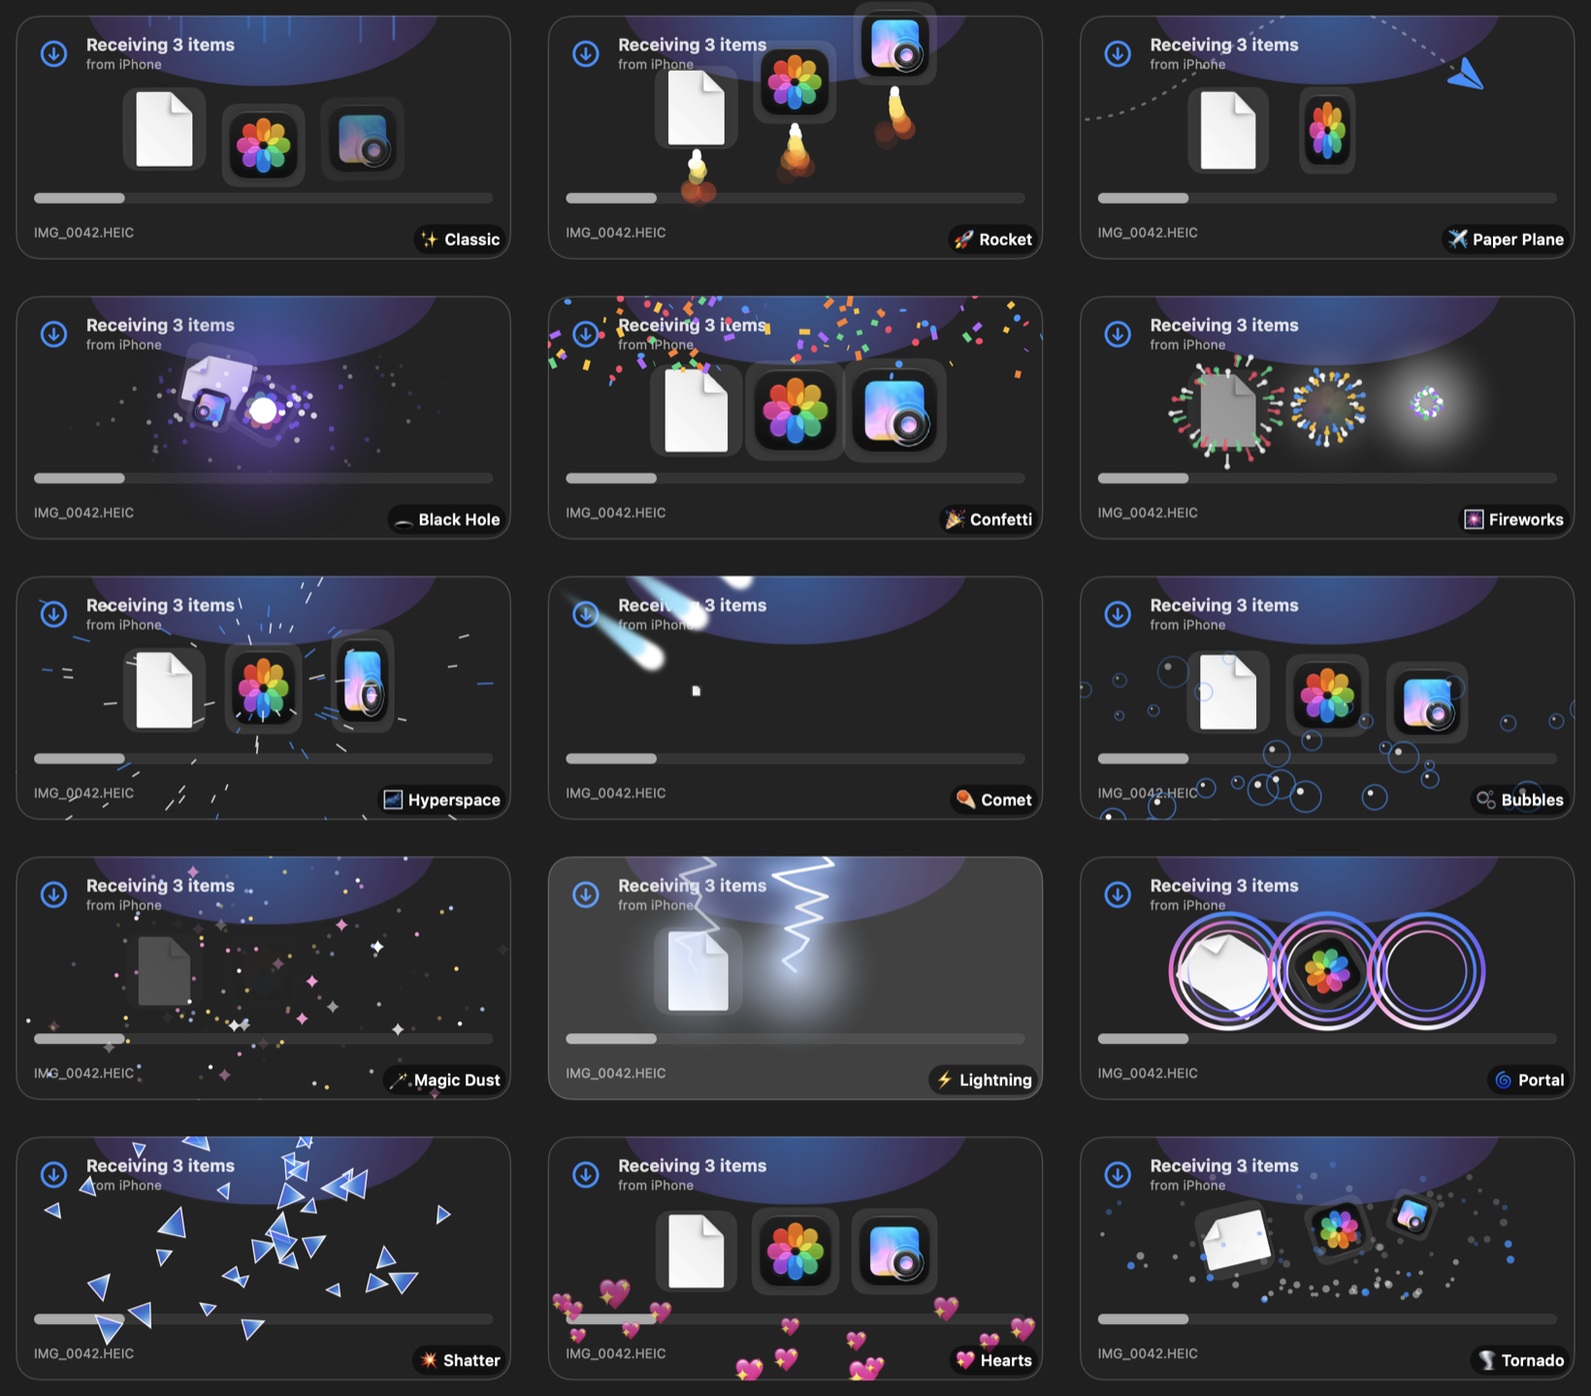
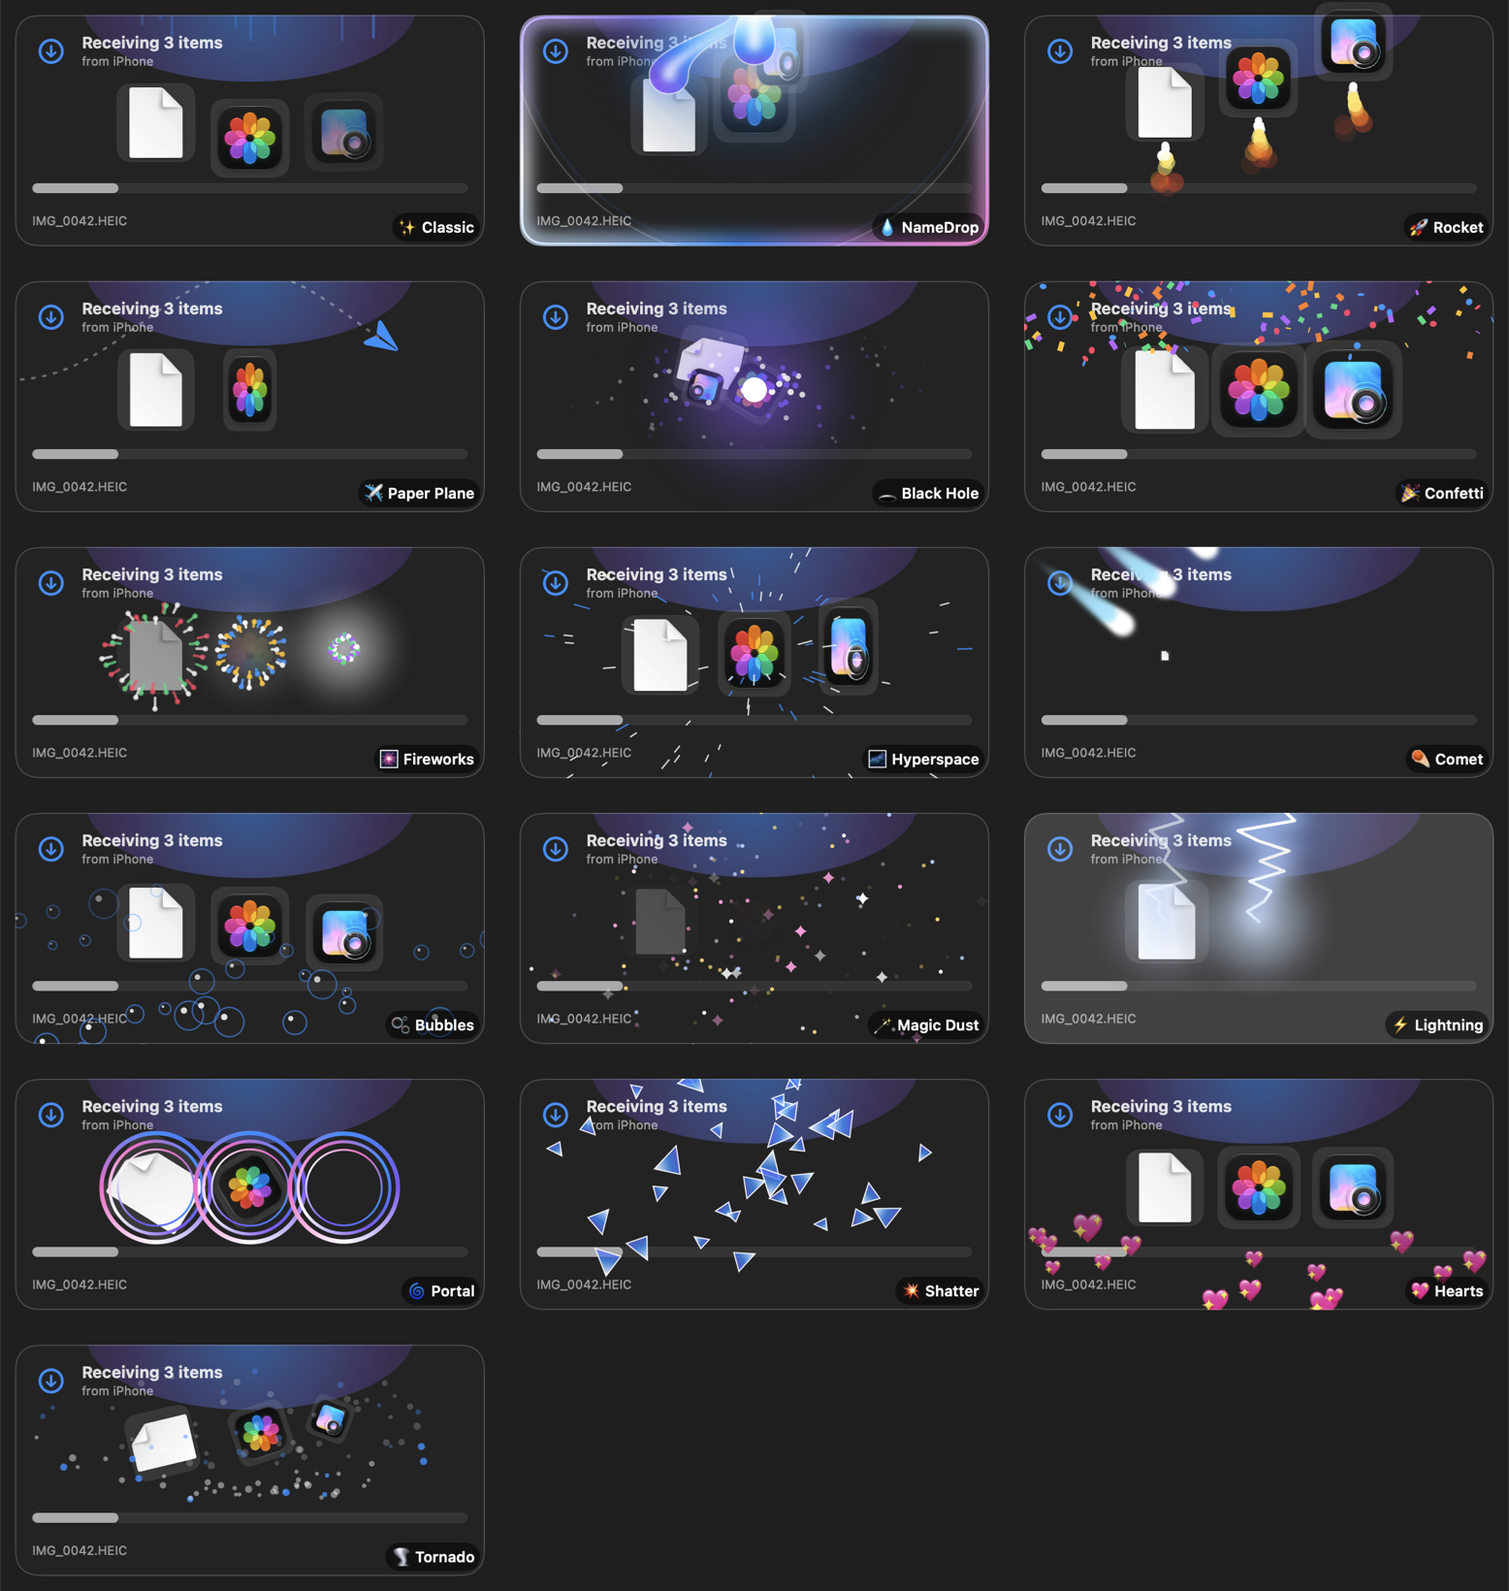
1.3.0: 💧 NameDrop drop effect on iPhone and Mac

diff --git a/Shared/Effects.swift b/Shared/Effects.swift
@@ -7,7 +7,7 @@
 import SwiftUI
 
 enum DropEffect: String, CaseIterable, Identifiable, Codable {
-    case classic, rocket, paperPlane, blackHole, confetti, fireworks, hyperspace, comet,
+    case classic, nameDrop, rocket, paperPlane, blackHole, confetti, fireworks, hyperspace, comet,
          bubbles, magic, lightning, portal, shatter, hearts, tornado
 
     var id: String { rawValue }
@@ -15,6 +15,7 @@ enum DropEffect: String, CaseIterable, Identifiable, Codable {
     var title: String {
         switch self {
         case .classic: return "Classic"
+        case .nameDrop: return "NameDrop"
         case .rocket: return "Rocket"
         case .paperPlane: return "Paper Plane"
         case .blackHole: return "Black Hole"
@@ -35,6 +36,7 @@ enum DropEffect: String, CaseIterable, Identifiable, Codable {
     var emoji: String {
         switch self {
         case .classic: return "✨"
+        case .nameDrop: return "💧"
         case .rocket: return "🚀"
         case .paperPlane: return "✈"
         case .blackHole: return "🕳"
@@ -55,7 +57,8 @@ enum DropEffect: String, CaseIterable, Identifiable, Codable {
     /// One line for the picker.
     var blurb: String {
         switch self {
-        case .classic: return "A clean flick off the top, like NameDrop"
+        case .classic: return "A clean flick off the top"
+        case .nameDrop: return "A glowing drop of light pulls it up, just like NameDrop"
         case .rocket: return "Rumbles, then blasts off on a plume of fire"
         case .paperPlane: return "Folds up and loops away on the breeze"
         case .blackHole: return "Spirals into a swirling void"
@@ -80,7 +83,7 @@ enum DropEffect: String, CaseIterable, Identifiable, Codable {
         case .lightning: return 1.1
         case .confetti, .shatter, .hyperspace: return 1.3
         case .rocket, .comet: return 1.5
-        case .paperPlane, .magic, .portal, .hearts, .tornado: return 1.6
+        case .nameDrop, .paperPlane, .magic, .portal, .hearts, .tornado: return 1.6
         case .blackHole, .fireworks: return 1.8
         case .bubbles: return 1.9
         }
@@ -108,6 +111,22 @@ enum DropEffect: String, CaseIterable, Identifiable, Codable {
             let u = ease(clamp(t / 0.55), .in)
             m.y = -1100 * u
             m.scale = 1 - 0.55 * u
+        case .nameDrop:
+            // A breath while the drop reaches down and catches it, then it's drawn up into the top edge.
+            if t < 0.3 {
+                let k = ease(t / 0.3, .inOut)
+                m.y = -24 * k
+                m.scale = 1 - 0.08 * k
+                m.stretch = 1 + 0.08 * k
+                m.brightness = 0.15 * k
+            } else {
+                let u = ease(clamp((t - 0.3) / 0.4), .in)
+                m.y = -24 - 1000 * u
+                m.scale = 0.92 - 0.75 * u
+                m.stretch = 1.08 + 0.9 * sin(u * .pi)   // pulled long, like a drop
+                m.brightness = 0.15 + 0.5 * u
+                m.opacity = u >= 1 ? 0 : 1
+            }
         case .rocket:
             if t < 0.3 {
                 let k = t / 0.3
@@ -246,6 +265,16 @@ enum DropEffect: String, CaseIterable, Identifiable, Codable {
             m.y = -90 * (1 - s)
             m.angle = Double(side) * 14 * (1 - s)
             m.opacity = clamp(t / 0.2)
+        case .nameDrop:
+            // Each card swells out of the drop at the top centre and springs into its slot.
+            let u = clamp((t - 0.22) / 0.42)
+            let s = ease(u, .out)
+            m.x = -76 * side * CGFloat(1 - s)
+            m.y = CGFloat(-80 * (1 - s))
+            m.scale = CGFloat(0.12 + 0.88 * min(1.06, spring(u)))
+            m.stretch = CGFloat(1 + 0.6 * (1 - ease(u, .out)))
+            m.opacity = u > 0 ? 1 : 0
+            m.brightness = 0.5 * (1 - u)
         case .rocket:
             let u = ease(clamp(t / 0.7), .out)
             m.y = -150 * (1 - u)
@@ -435,6 +464,30 @@ private enum EffectArt {
         switch e {
         case .classic:
             streaks(&g, from: p, count: 10, length: 160 * fade(t, 0, 0.5), spread: 60, color: blue, alpha: 0.5 * (1 - t))
+        case .nameDrop:
+            let top = CGPoint(x: o.x, y: 0)
+            let merge = 0.62
+            edgeGlow(&g, size: size, t: t, alpha: ease(clamp(t / 0.25), .out) * (1 - fade(t, 0.85, 1.2)), corner: 54, width: 22)
+            // The drop: reaches down from the top edge, catches the top of the stack, and shrinks back up with it.
+            let reach = ease(clamp(t / 0.3), .out)
+            let catchY = p.y - 50 * m.scale * m.stretch
+            let tip = CGPoint(x: p.x, y: min(catchY, top.y + (catchY - top.y) * reach))
+            let held = 1 - fade(t, merge - 0.04, merge + 0.06)
+            glow(&g, p, radius: 120 * m.scale, color: blue, alpha: 0.5 * held * reach)
+            liquid(&g, top: top, width: 26 + 26 * reach, tip: tip, bulb: 9 + 17 * m.scale, alpha: held)
+            for i in 0..<44 {   // light running up the drop
+                let s = (r(i, 1) + t * 2.2).truncatingRemainder(dividingBy: 1)
+                let y = tip.y + (top.y - tip.y) * s
+                let w = 6 + 30 * pow(1 - s, 2) * (r(i, 2) - 0.5) * 2
+                dot(&g, CGPoint(x: top.x + w, y: y), radius: 1.2 + 1.8 * r(i, 3), color: .white, alpha: held * reach * (0.4 + 0.6 * s))
+            }
+            // Where it goes in: a flash and ripples rolling out from the top edge.
+            if t > merge - 0.05 {
+                let f = fade(t, merge - 0.05, merge + 0.1)
+                glow(&g, top, radius: 90 + 200 * f, color: .white, alpha: 0.95 * (1 - fade(t, merge + 0.05, merge + 0.45)))
+                glow(&g, top, radius: 260 * f, color: violet, alpha: 0.5 * (1 - fade(t, merge + 0.1, 1.1)))
+            }
+            ripples(&g, at: top, t: (t - merge) / 0.55, count: 4, radius: 340, color: blue)
         case .rocket:
             // Rumble: smoke puffs; lift-off: a flame plume under the stack and smoke left behind.
             let thrust = t < 0.3 ? 0.4 * t / 0.3 : 1 - clamp((t - 0.9) / 0.3)
@@ -665,6 +718,22 @@ private enum EffectArt {
                 streaks(&g, from: CGPoint(x: s.x, y: s.y - 40), count: 5, length: 50 * (1 - fade(t, 0.1, 0.6)), spread: 26,
                         color: blue, alpha: 0.4 * (1 - t), seed: i, down: true)
             }
+        case .nameDrop:
+            let top = CGPoint(x: row.x, y: 0)
+            edgeGlow(&g, size: size, t: t, alpha: fade(t, 0, 0.15) * (1 - fade(t, 0.65, 1)), corner: 18, width: 12)
+            ripples(&g, at: top, t: t / 0.55, count: 2, radius: 200, color: blue)
+            glow(&g, top, radius: 110, color: .white, alpha: 0.7 * ease(clamp(t / 0.2), .out) * (1 - fade(t, 0.4, 0.75)))
+            let n = spots.count
+            for (i, s) in spots.enumerated() {
+                // A drop from the top centre to each card, carrying it down, then let go.
+                let m = e.arrive(t, index: i, of: n)
+                let card = CGPoint(x: s.x + m.x, y: s.y + m.y - 32 * m.scale * m.stretch)
+                let reach = ease(clamp(t / 0.25), .out)
+                let tip = CGPoint(x: top.x + (card.x - top.x) * reach, y: top.y + (card.y - top.y) * reach)
+                let d = Double(i) * 0.08
+                liquid(&g, top: top, width: 22, tip: tip, bulb: 6 + 10 * m.scale, alpha: 1 - fade(t, d + 0.5, d + 0.68))
+                ripples(&g, at: s, t: (t - d - 0.5) / 0.5, count: 3, radius: 70, color: blue)
+            }
         case .rocket:
             for (i, s) in spots.enumerated() {
                 let m = e.arrive(t, index: i, of: spots.count)
@@ -821,6 +890,72 @@ private enum EffectArt {
     }
 
     // MARK: Pieces
+
+    /// A drop of light hanging from `top`: wide where it joins the edge, a thin neck, a round bulb at `tip`.
+    static func liquid(_ g: inout GraphicsContext, top c: CGPoint, width w: Double, tip: CGPoint, bulb b: Double, alpha: Double) {
+        let len = Double(tip.y - c.y)
+        guard alpha > 0.01, len > 2 else { return }
+        func shape(_ w: Double, _ b: Double) -> Path {
+            let neck = max(b * 0.3, 2)
+            let lead = max(b * 1.6, len * 0.35)
+            var p = Path()
+            p.move(to: CGPoint(x: c.x - w, y: c.y - 2))
+            p.addCurve(to: CGPoint(x: tip.x - b, y: tip.y), control1: CGPoint(x: c.x - neck, y: c.y + len * 0.15),
+                       control2: CGPoint(x: tip.x - b, y: tip.y - lead))
+            p.addCurve(to: CGPoint(x: tip.x + b, y: tip.y), control1: CGPoint(x: tip.x - b, y: tip.y + b * 1.33),
+                       control2: CGPoint(x: tip.x + b, y: tip.y + b * 1.33))
+            p.addCurve(to: CGPoint(x: c.x + w, y: c.y - 2), control1: CGPoint(x: tip.x + b, y: tip.y - lead),
+                       control2: CGPoint(x: c.x + neck, y: c.y + len * 0.15))
+            p.closeSubpath()
+            return p
+        }
+        let body = shape(w, b)
+        var soft = g
+        soft.opacity = alpha * 0.8
+        soft.addFilter(.blur(radius: 14))
+        soft.fill(body, with: .color(blue))
+        var c2 = g
+        c2.opacity = alpha * 0.9
+        c2.fill(body, with: .linearGradient(Gradient(colors: [.white, Color(red: 0.55, green: 0.88, blue: 1), blue, violet]),
+                                             startPoint: c, endPoint: CGPoint(x: tip.x, y: tip.y + b)))
+        c2.stroke(body, with: .color(.white.opacity(0.6)), lineWidth: 1.2)
+        var core = g
+        core.opacity = alpha * 0.75
+        core.addFilter(.blur(radius: 3))
+        core.fill(shape(w * 0.3, b * 0.35), with: .color(.white))
+    }
+
+    /// The shimmering rim of light around the screen, brightest along the top where the two devices meet.
+    static func edgeGlow(_ g: inout GraphicsContext, size: CGSize, t: Double, alpha: Double, corner: Double, width: Double) {
+        guard alpha > 0.01 else { return }
+        let rim = Path(roundedRect: CGRect(origin: .zero, size: size).insetBy(dx: 2, dy: 2), cornerRadius: corner, style: .continuous)
+        let shimmer = GraphicsContext.Shading.conicGradient(
+            Gradient(colors: [blue, .white, violet, Color(red: 0.55, green: 0.88, blue: 1), Color(red: 1, green: 0.5, blue: 0.85), blue]),
+            center: CGPoint(x: size.width / 2, y: size.height / 2), angle: .degrees(t * 260))
+        var soft = g
+        soft.opacity = alpha * 0.9
+        soft.addFilter(.blur(radius: width * 0.55))
+        soft.stroke(rim, with: shimmer, lineWidth: width)
+        var sharp = g
+        sharp.opacity = alpha
+        sharp.stroke(rim, with: shimmer, lineWidth: max(2, width * 0.14))
+        let mid = CGPoint(x: size.width / 2, y: 0)
+        g.fill(Path(CGRect(x: 0, y: 0, width: size.width, height: size.width * 0.4)),
+               with: .radialGradient(Gradient(colors: [Color.white.opacity(0.55 * alpha), blue.opacity(0.25 * alpha), .clear]),
+                                     center: mid, startRadius: 0, endRadius: size.width * 0.4))
+    }
+
+    /// Rings of light rolling out from `p` one after another, as `t` goes 0→1.
+    static func ripples(_ g: inout GraphicsContext, at p: CGPoint, t: Double, count: Int, radius: Double, color: Color) {
+        guard t > 0 else { return }
+        for k in 0..<count {
+            let u = (t - Double(k) * 0.14) / 0.7
+            guard u > 0, u < 1 else { continue }
+            let rad = radius * ease(u, .out)
+            ring(&g, p, radius: rad * 0.97, width: 10 * (1 - u), color: color, alpha: 0.4 * (1 - u))
+            ring(&g, p, radius: rad, width: 0.8 + 2.5 * (1 - u), color: .white, alpha: 0.85 * (1 - u))
+        }
+    }
 
     static func dot(_ g: inout GraphicsContext, _ p: CGPoint, radius: Double, color: Color, alpha: Double, blur: Double = 0) {
         guard alpha > 0.01, radius > 0.1 else { return }

diff --git a/scripts/render_effects.swift b/scripts/render_effects.swift
@@ -44,14 +44,14 @@ struct RenderEffects {
         }
 
         // The most telling moment of each throw, for the contact sheet.
-        let best: [DropEffect: Double] = [.classic: 0.35, .rocket: 0.55, .paperPlane: 0.6, .blackHole: 0.55, .confetti: 0.3,
+        let best: [DropEffect: Double] = [.classic: 0.35, .nameDrop: 0.42, .rocket: 0.55, .paperPlane: 0.6, .blackHole: 0.55, .confetti: 0.3,
                                           .fireworks: 0.55, .hyperspace: 0.5, .comet: 0.6, .bubbles: 0.45, .magic: 0.45,
                                           .lightning: 0.12, .portal: 0.55, .shatter: 0.3, .hearts: 0.6, .tornado: 0.45]
         let all = DropEffect.allCases
         save(VStack(spacing: 6) {
-            ForEach(0..<3) { row in
+            ForEach(0..<(all.count + 3) / 4, id: \.self) { row in
                 HStack(spacing: 6) {
-                    ForEach(all[row * 5 ..< row * 5 + 5]) { e in phone(e, at: best[e] ?? 0.5, label: true) }
+                    ForEach(all[row * 4 ..< min(all.count, row * 4 + 4)]) { e in phone(e, at: best[e] ?? 0.5, label: true) }
                 }
             }
         }.padding(6).background(Color.black), out.appendingPathComponent("effects-iphone.png"))
@@ -87,7 +87,7 @@ struct RenderEffects {
             return img
         }
 
-        let macBest: [DropEffect: Double] = [.classic: 0.25, .lightning: 0.2, .paperPlane: 0.4, .shatter: 0.3, .comet: 0.3,
+        let macBest: [DropEffect: Double] = [.classic: 0.25, .nameDrop: 0.38, .lightning: 0.2, .paperPlane: 0.4, .shatter: 0.3, .comet: 0.3,
                                              .bubbles: 0.5, .fireworks: 0.4, .confetti: 0.35]
         var sheet: [(DropEffect, NSImage)] = []
         for e in all {
@@ -97,7 +97,7 @@ struct RenderEffects {
                  frames.appendingPathComponent("\(e.rawValue)-mac.png"))
         }
         save(VStack(alignment: .leading, spacing: 4) {
-            ForEach(0..<5) { row in
+            ForEach(0..<(sheet.count + 2) / 3, id: \.self) { row in
                 HStack(spacing: 4) {
                     ForEach(sheet[row * 3 ..< min(sheet.count, row * 3 + 3)].indices, id: \.self) { i in
                         Image(nsImage: sheet[i].1)

diff --git a/iPhone/PhoneShared/DropView.swift b/iPhone/PhoneShared/DropView.swift
@@ -106,6 +106,9 @@ final class Drop: ObservableObject {
             buzz(.light, stride(from: 0, to: 0.42, by: 0.05).map { $0 }, intensity: 0.8)
             buzz(.heavy, [0.45])
         case .lightning: buzz(.rigid, [0, 0.06, 0.14])
+        case .nameDrop:
+            buzz(.soft, stride(from: 0, to: 0.36 * d, by: 0.09).map { $0 }, intensity: 0.6)
+            buzz(.rigid, [0.62 * d]); buzz(.soft, [0.7 * d, 0.8 * d], intensity: 0.5)
         case .fireworks: buzz(.medium, [0]); buzz(.heavy, [0.36 * d, 0.5 * d, 0.62 * d])
         case .hearts: buzz(.medium, [0.05, 0.25])
         case .confetti: buzz(.heavy, [0]); buzz(.light, [0.15, 0.22, 0.3])

diff --git a/README.md b/README.md
@@ -27,7 +27,7 @@ It works without a shared network, so office and guest Wi-Fi are fine.
 |---|---|
 | **Bring it close, swipe up** | Pampu on the Mac sends out a small Bluetooth signal and the iPhone measures how strong it is. Once it's close, both glow and the stack lifts. Swipe it up: the Mac's cards follow your swipe live, and a tick tells you when letting go will drop it. Choose **Touching**, **Close** or **Nearby** in Settings, with a live reading to help. |
 | **Or let it drop by itself** | Pick **Drop Right Away** in Settings and it goes as soon as the iPhone is close. Swiping up and **Send Now** also work at any distance in range, and with Bluetooth off. |
-| **15 drop effects** | 🚀 Rocket, ✈ Paper Plane, 🕳 Black Hole, 🎆 Fireworks, ⚡ Lightning, 🌀 Portal and more. The iPhone throws the stack with its own particles and haptics, and the Mac plays the matching landing. Pick one in **Settings › Drop effect** (with a live preview), or **🎲 Random** for a different one every time. |
+| **16 drop effects** | 💧 NameDrop (a glowing drop pulls it up into the top edge, with ripples), 🚀 Rocket, ✈ Paper Plane, 🕳 Black Hole, 🎆 Fireworks, ⚡ Lightning, 🌀 Portal and more. The iPhone throws the stack with its own particles and haptics, and the Mac plays the matching landing. Pick one in **Settings › Drop effect** (with a live preview), or **🎲 Random** for a different one every time. |
 | **Swipe it away on the Mac** | Swipe up on the panel with two fingers, or drag it up, to put it away. Mid-drop it stays out of the way and comes back when everything has landed. |
 | **From anywhere on the iPhone** | In the app: **Photos**, **Files** or **Paste**. From any other app: **Share › Pampu** (Photos, Files, Safari, Notes…). Up to 50 items at once. |
 | **No Wi-Fi needed** | A direct, encrypted peer-to-peer link (Apple's MultipeerConnectivity, over peer-to-peer Wi-Fi and Bluetooth). Nothing goes through a server or a cloud, and you don't need an account. |
@@ -67,11 +67,11 @@ It works without a shared network, so office and guest Wi-Fi are fine.
 
 Pick one in **Settings › Drop effect** on the iPhone, or **🎲 Random** (the default) for a new one every drop.
 
-<img src="docs/screenshots/effects-iphone.png" width="820" alt="The 15 throws on the iPhone, mid-flight: Classic, Rocket, Paper Plane, Black Hole, Confetti, Fireworks, Hyperspace, Comet, Bubbles, Magic Dust, Lightning, Portal, Shatter, Hearts and Tornado">
+<img src="docs/screenshots/effects-iphone.png" width="820" alt="The 16 throws on the iPhone, mid-flight: Classic, NameDrop, Rocket, Paper Plane, Black Hole, Confetti, Fireworks, Hyperspace, Comet, Bubbles, Magic Dust, Lightning, Portal, Shatter, Hearts and Tornado">
 
 The Mac plays the matching landing as the cards arrive:
 
-<img src="docs/screenshots/effects-mac.png" width="820" alt="The same 15 effects landing in the Mac panel: rocket flames, a paper plane trail, a black hole, confetti, fireworks, star streaks, a comet, bubbles, magic dust, lightning, portal rings, glass shards, hearts and a tornado">
+<img src="docs/screenshots/effects-mac.png" width="820" alt="The same 16 effects landing in the Mac panel: NameDrop drops and ripples, rocket flames, a paper plane trail, a black hole, confetti, fireworks, star streaks, a comet, bubbles, magic dust, lightning, portal rings, glass shards, hearts and a tornado">
 
 ---
 
@@ -133,7 +133,7 @@ The 🪂 menu on the Mac:
 | **Open Drop Folder / Change Drop Folder…** | `~/Downloads/Pampu` by default. |
 | **Sort Into Folders by Type** · **Open Links Automatically** · **Play Sounds** | On, off, on by default. |
 | **Paired iPhones** | Forget one, or all. A forgotten iPhone has to pair again. |
-| **Landing Effect** | *Same as the iPhone*, 🎲 Random, or always one of the 15. Picking one plays it. |
+| **Landing Effect** | *Same as the iPhone*, 🎲 Random, or always one of the 16. Picking one plays it. |
 | **Appearance** | System, Light or Dark. |
 | **Launch at Login** | Start Pampu when you log in. |
 
@@ -175,7 +175,7 @@ CBCentralManager        ◀── BLE advert (RSSI) ───   CBPeripheralMana
 | `iPhone/Share/` | The Share extension. It sends by itself, so it doesn't need the app to be open. |
 | `iPhone/PhoneShared/` | Shared by both: sender, closeness, tray and the drop screen. |
 | `Shared/Wire.swift` | The message format and the pairing proof, compiled into all three. |
-| `Shared/Effects.swift` | The 15 drop effects: how the stack moves and the particles drawn, for both the throw and the landing. |
+| `Shared/Effects.swift` | The 16 drop effects: how the stack moves and the particles drawn, for both the throw and the landing. |
 
 ## Build from source
 

diff --git a/CHANGELOG.md b/CHANGELOG.md
@@ -1,5 +1,16 @@
 # Changelog
 
+## 1.3.0 — 2026-10-30
+
+💧 A NameDrop drop effect.
+
+- **New 💧 NameDrop effect**, on both the iPhone and the Mac. On the iPhone, a glowing drop of light
+  reaches down from the top edge, catches the stack and pulls it up, with a shimmering rim around
+  the screen and ripples rolling out where it goes in, plus its own soft haptics. On the Mac, the
+  panel's rim lights up, a drop runs from the top to each slot, and each card swells out of it
+  with a ripple. Pick it in **Settings › Drop effect**, or in 🪂 › Landing Effect. Random picks it too.
+- Classic's description no longer says "like NameDrop".
+
 ## 1.2.2 — 2026-10-30
 
 🔗 The Mac remembers your iPhone.
